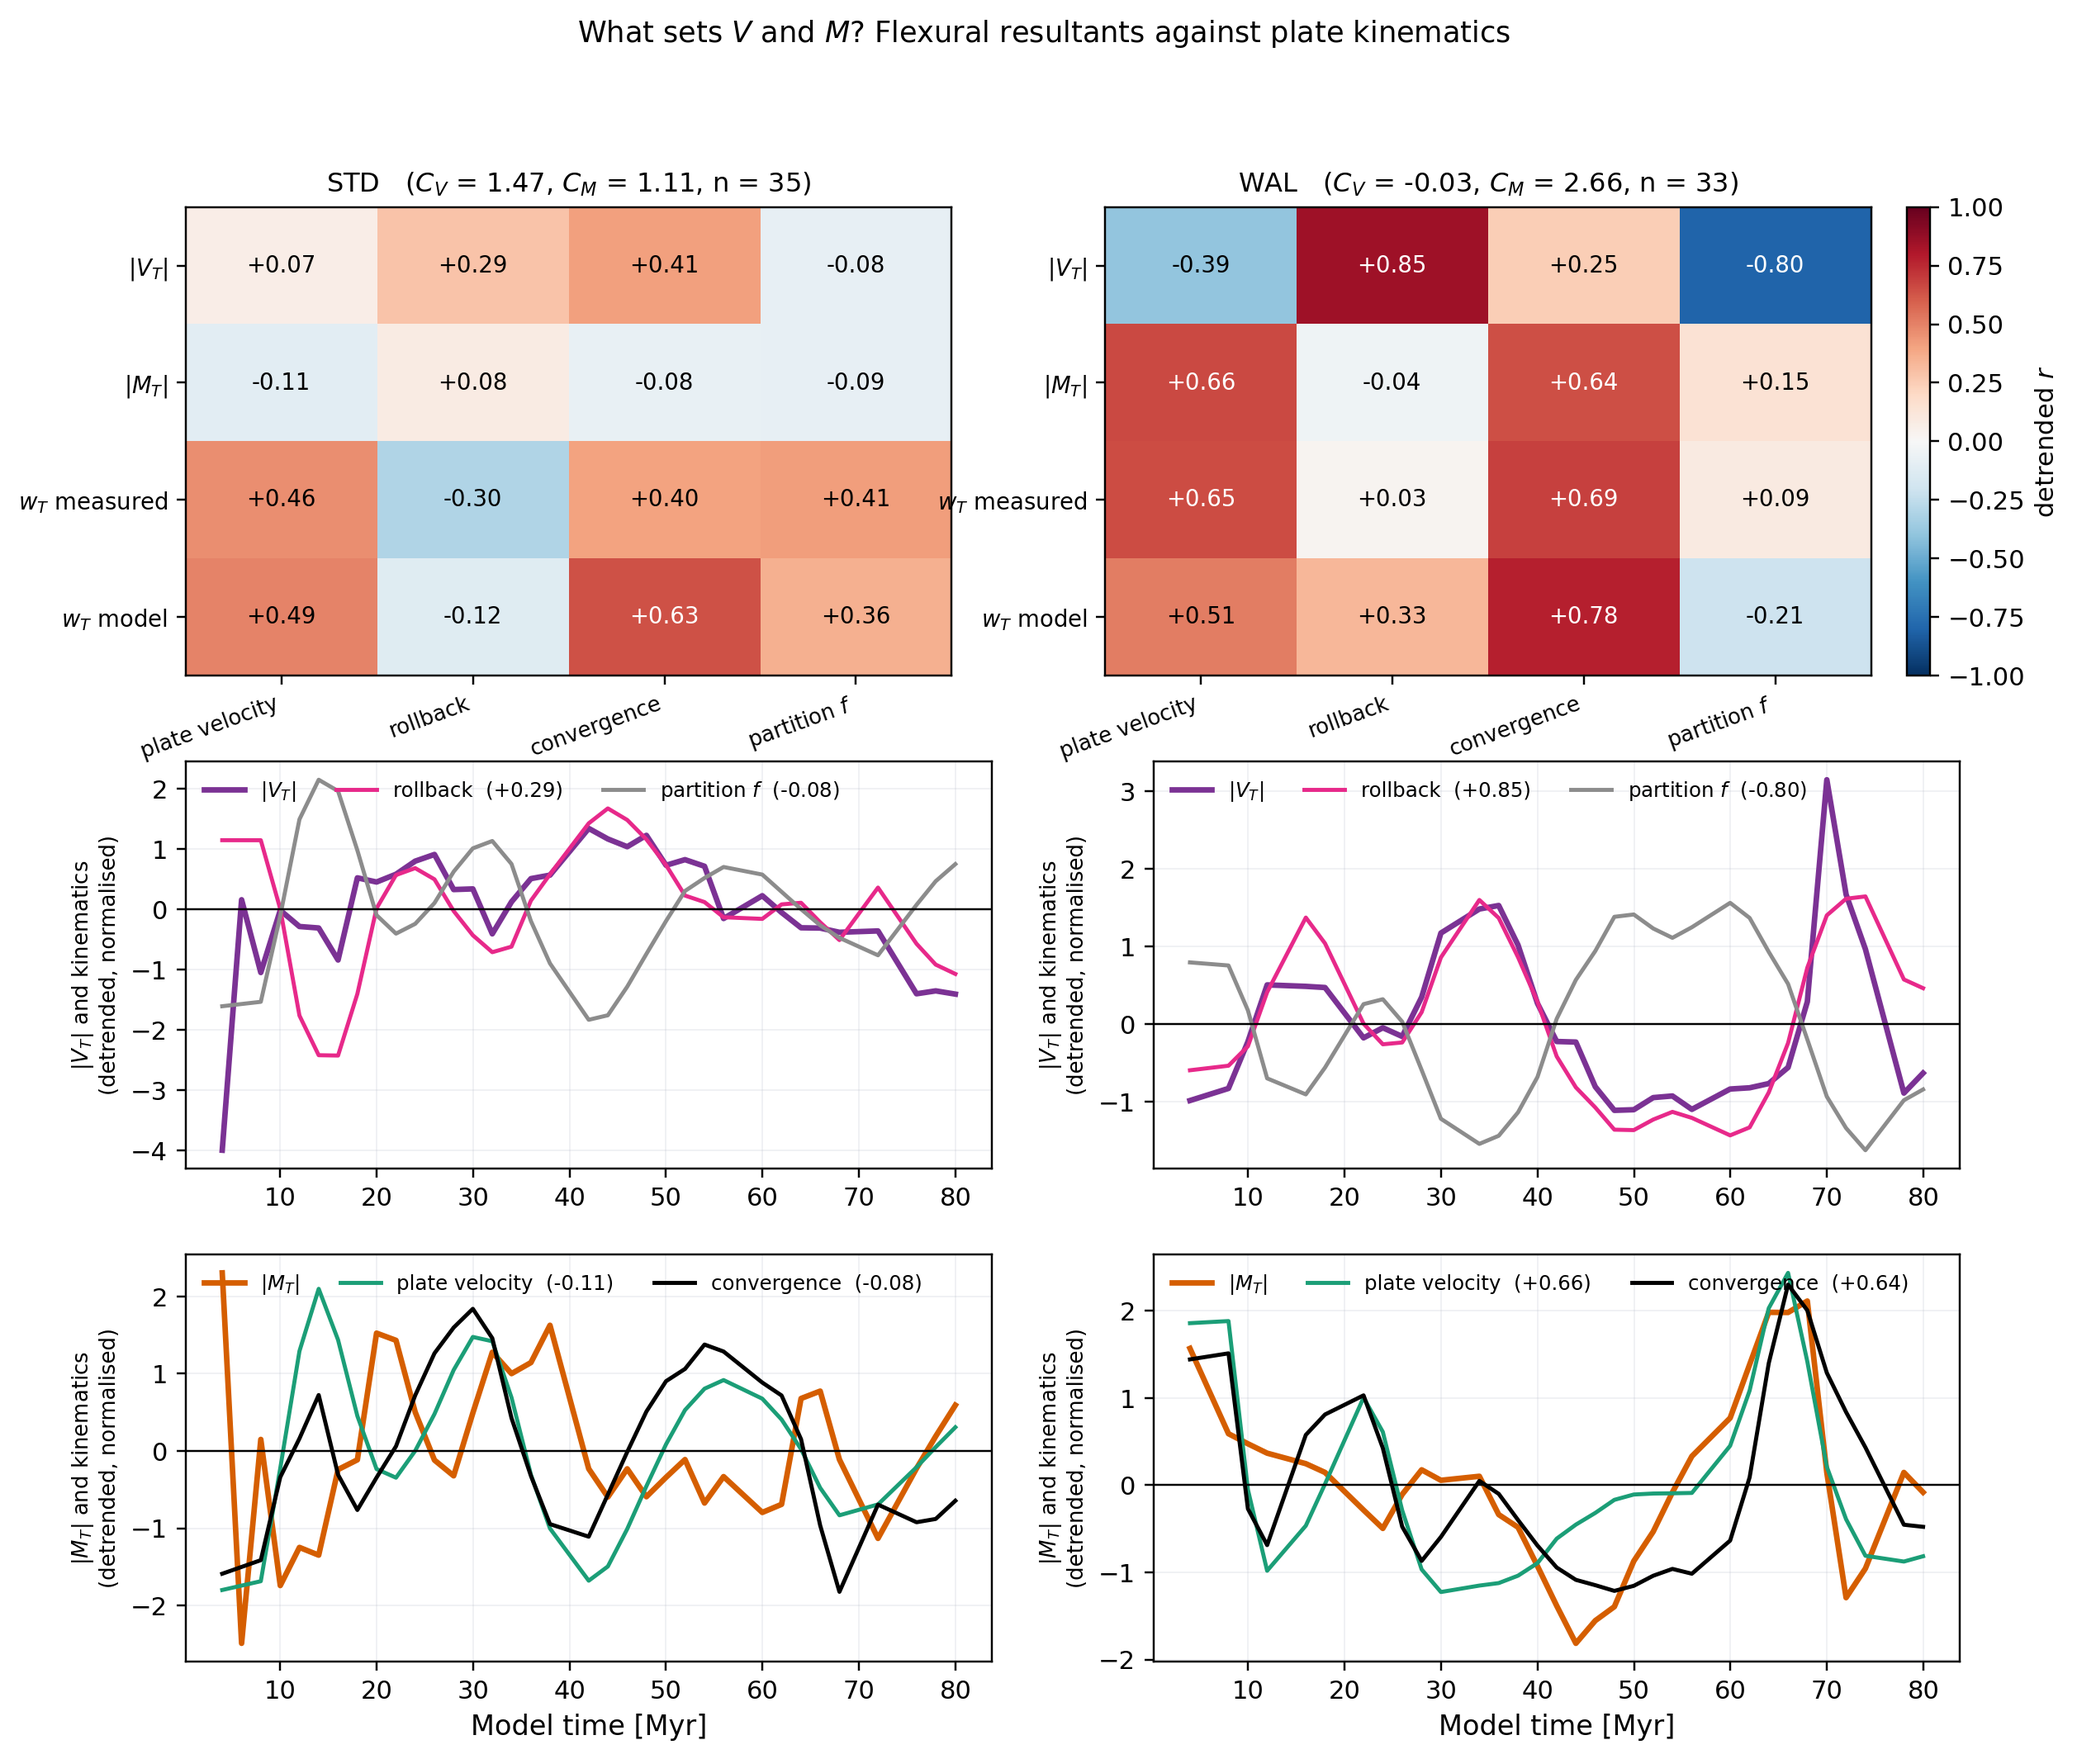
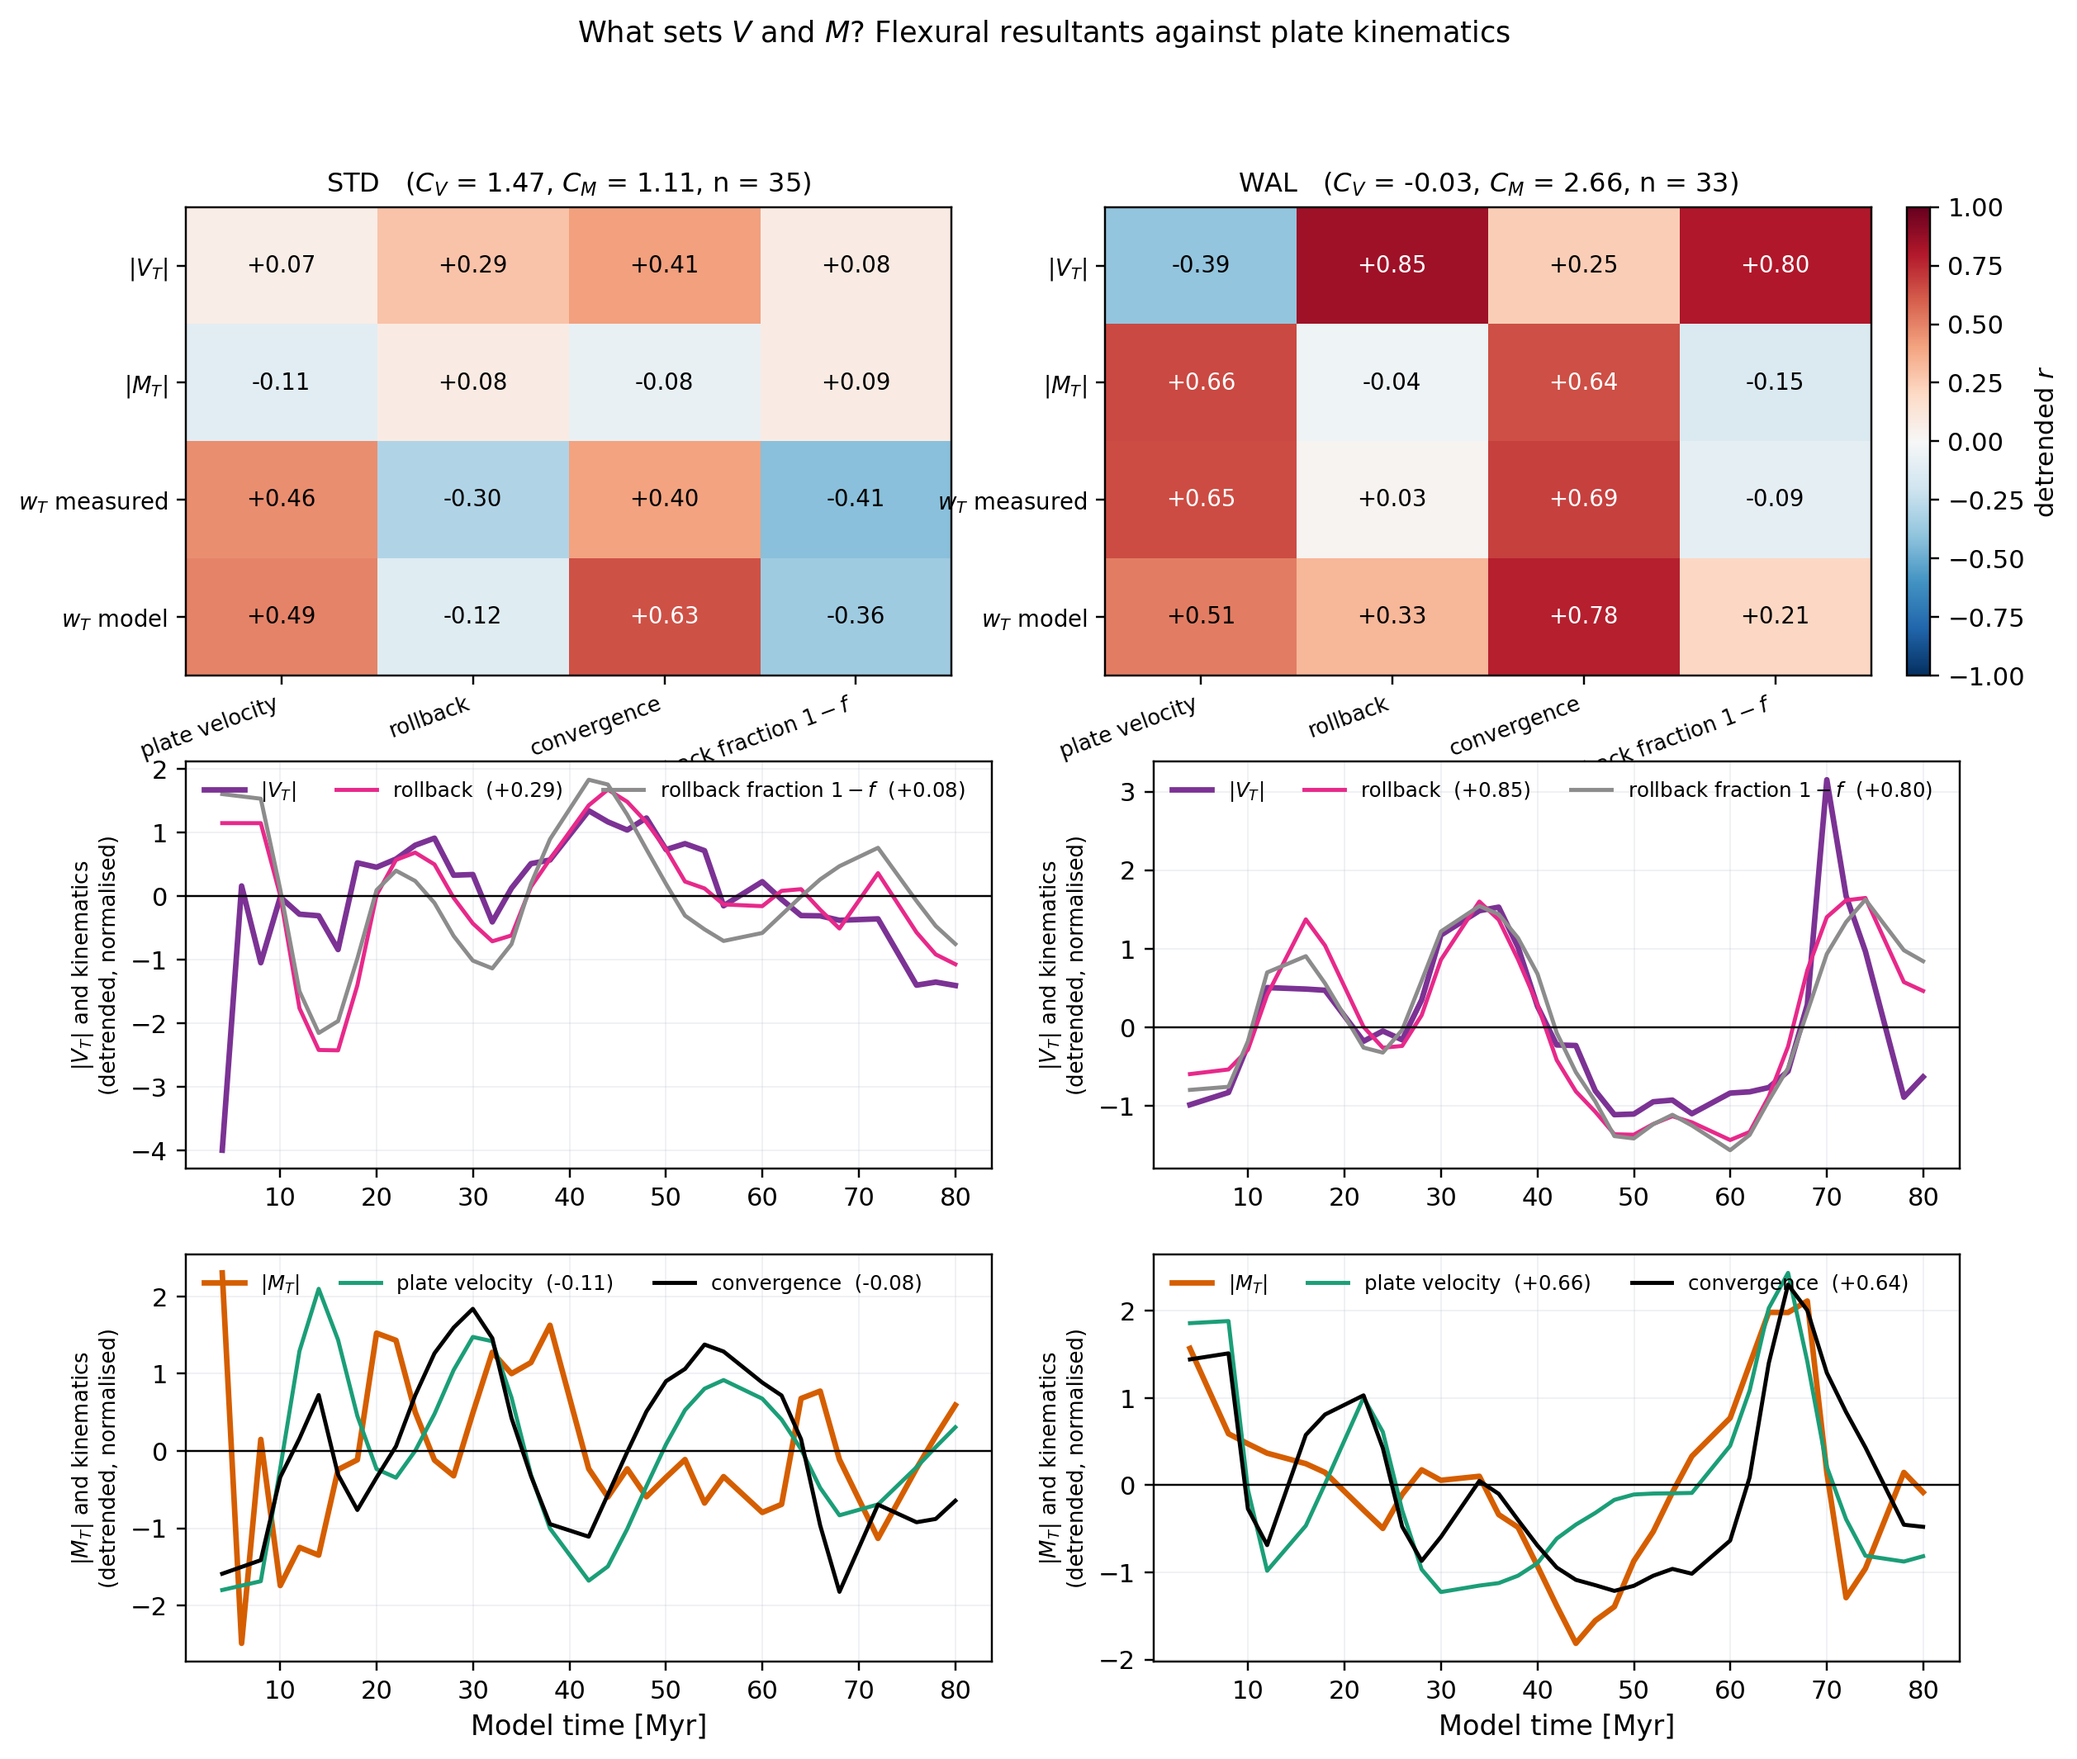
fig_flexure_kinematics: rollback fraction 1-f instead of the plate fraction
Dan, 2026-09-22. Detrended, 1-f is exactly -f, so the correlation simply
changes sign -- but the quantity gains a physical name (the share of
convergence taken by the trench) and, more usefully, V's relationship to
it now reads as tracking rather than anti-tracking.

  WAL |V_T| vs rollback fraction  +0.80 (was -0.80 against f)

The WAL middle panel now shows three curves lying on top of each other:
|V_T|, the rollback rate and the rollback fraction. V is large exactly
when the trench takes a larger share of the convergence.

Only the sign of the f column changes; nothing else in the matrix moves.

diff --git a/scripts/kinematics/fig_flexure_kinematics.py b/scripts/kinematics/fig_flexure_kinematics.py
@@ -24,9 +24,9 @@ between them is readable rather than having to be asserted.
 WHAT IT FINDS. The hypothesis is half right, and it is the other half
 that is interesting.
 
-  WAL  |V_T| is set by ROLLBACK, r = +0.85, and anti-correlates with the
-       partition fraction at -0.80 -- V is large when the trench is doing
-       the moving rather than the plate.
+  WAL  |V_T| is set by ROLLBACK, r = +0.85, and tracks the rollback
+       FRACTION 1-f at +0.80 -- V is large when the trench is doing the
+       moving rather than the plate.
        |M_T| is set by PLATE VELOCITY (+0.66) and convergence (+0.64).
        So the two flexural resultants answer to different halves of the
        kinematic partition.
@@ -69,7 +69,7 @@ from tables_io import write_table
 
 ROOT = os.path.dirname(os.path.dirname(_HERE))
 C = {'plate velocity': '#1B9E77', 'rollback': '#E7298A',
-     'convergence': 'k', 'partition $f$': '0.55'}
+     'convergence': 'k', 'rollback fraction $1-f$': '0.55'}
 C_V, C_M = '#7B3294', '#D55E00'
 
 
@@ -115,7 +115,12 @@ def main():
         kin = {'plate velocity': np.interp(t, tc, vp),
                'rollback': np.interp(t, tc, roll),
                'convergence': np.interp(t, tc, conv),
-               'partition $f$': np.interp(t, tc, vp / conv)}
+               # the ROLLBACK FRACTION rather than the plate fraction
+               # (Dan, 2026-09-22): 1 - f is what V actually tracks, and
+               # detrended it is exactly -f, so the correlation simply
+               # changes sign while the quantity gains a physical name --
+               # the share of convergence taken by the trench.
+               'rollback fraction $1-f$': np.interp(t, tc, 1.0 - vp / conv)}
         flex = {'$|V_T|$': fx['V'], '$|M_T|$': fx['M'],
                 '$w_T$ measured': fx['w'], '$w_T$ model': fx['wm']}
 
@@ -136,7 +141,7 @@ def main():
 
         a1 = axes[1, col]
         a1.plot(t, zs(ld(t, fx['V'])), '-', color=C_V, lw=2.2, label='$|V_T|$')
-        for nm in ('rollback', 'partition $f$'):
+        for nm in ('rollback', 'rollback fraction $1-f$'):
             rr = np.corrcoef(ld(t, fx['V']), ld(t, kin[nm]))[0, 1]
             a1.plot(t, zs(ld(t, kin[nm])), '-', color=C[nm], lw=1.6,
                     label=f'{nm}  ({rr:+.2f})')
